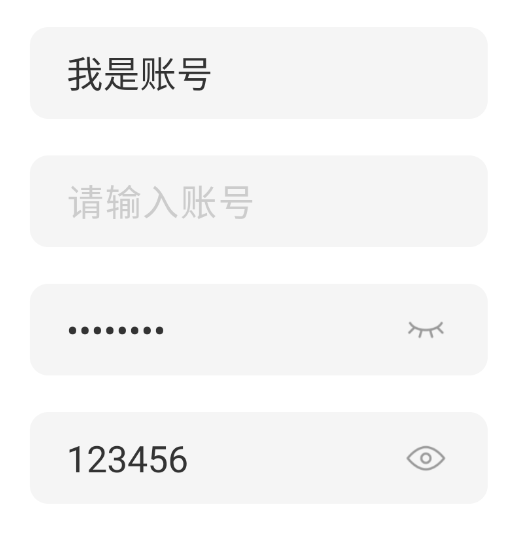
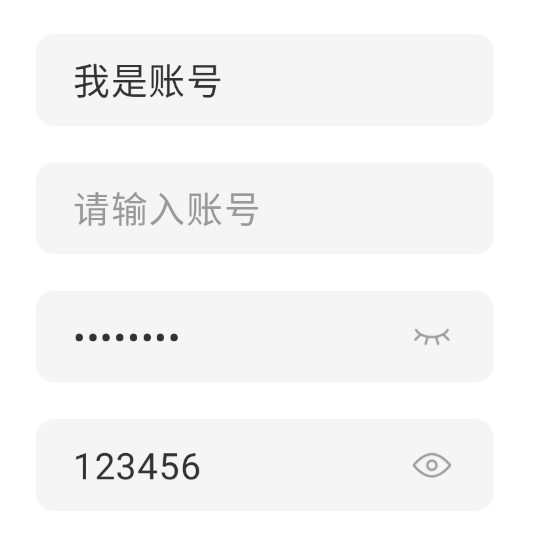
优化TextField样式

diff --git a/compose_views/src/main/java/com/lt/compose_views/text_field/BackgroundComposeWithTextField.kt b/compose_views/src/main/java/com/lt/compose_views/text_field/BackgroundComposeWithTextField.kt
@@ -23,7 +23,7 @@ import androidx.compose.ui.Modifier
 import androidx.compose.ui.graphics.Color
 import androidx.compose.ui.graphics.Shape
 import androidx.compose.ui.unit.dp
-import com.lt.compose_views.util.Color0a000000
+import com.lt.compose_views.util.ColorF5
 
 /**
  * creator: lt  2022/7/16  lt.dygzs@qq.com
@@ -52,6 +52,6 @@ interface BackgroundComposeWithTextField {
         /**
          * 默认[GoodTextField]的背景,灰色圆角矩形
          */
-        val DEFAULT = createBackgroundCompose(RoundedCornerShape(8.dp), Color0a000000)
+        val DEFAULT = createBackgroundCompose(RoundedCornerShape(8.dp), ColorF5)
     }
 }

diff --git a/compose_views/src/main/java/com/lt/compose_views/text_field/HintComposeWithTextField.kt b/compose_views/src/main/java/com/lt/compose_views/text_field/HintComposeWithTextField.kt
@@ -19,7 +19,7 @@ package com.lt.compose_views.text_field
 import androidx.compose.material.Text
 import androidx.compose.runtime.Composable
 import androidx.compose.ui.unit.TextUnit
-import com.lt.compose_views.util.ColorCCC
+import com.lt.compose_views.util.Color999
 
 /**
  * creator: lt  2022/7/16  lt.dygzs@qq.com
@@ -42,7 +42,7 @@ interface HintComposeWithTextField {
             override fun Hint(fontSize: TextUnit) {
                 Text(
                     text = hint,
-                    color = ColorCCC,
+                    color = Color999,
                     fontSize = fontSize
                 )
             }

diff --git a/compose_views/src/main/java/com/lt/compose_views/util/Style.kt b/compose_views/src/main/java/com/lt/compose_views/util/Style.kt
@@ -8,5 +8,5 @@ import androidx.compose.ui.graphics.Color
  * warning:
  */
 internal val Color333 = Color(0xff333333)
-internal val ColorCCC = Color(0xffcccccc)
-internal val Color0a000000 = Color(0x0a000000)
+internal val Color999 = Color(0xff999999)
+internal val ColorF5 = Color(0xfff5f5f5)
